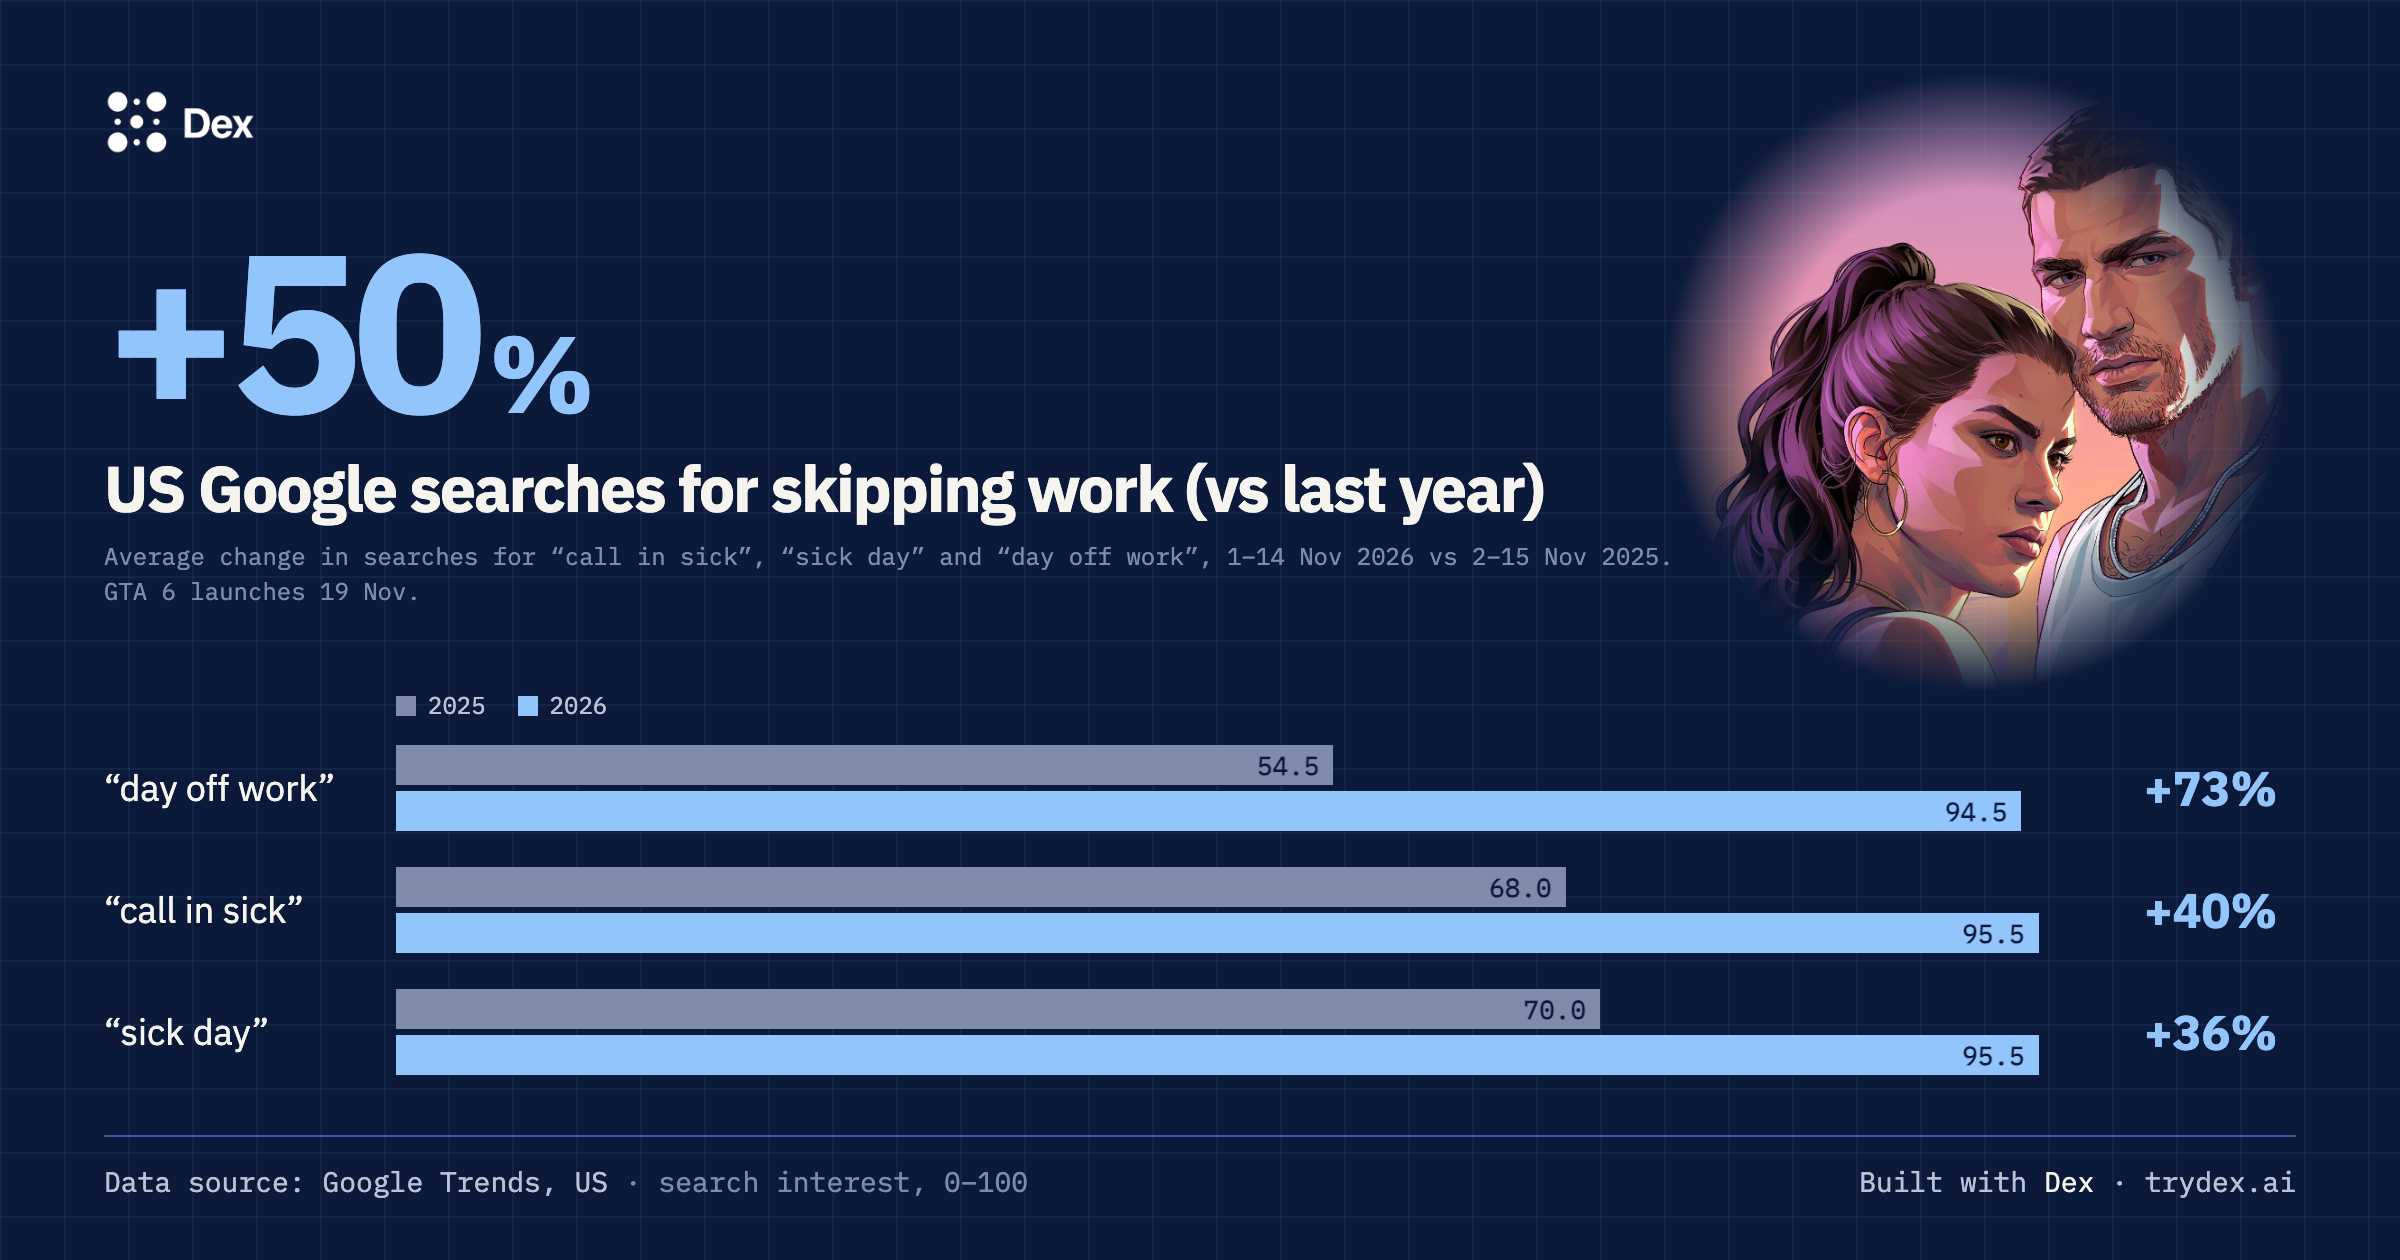
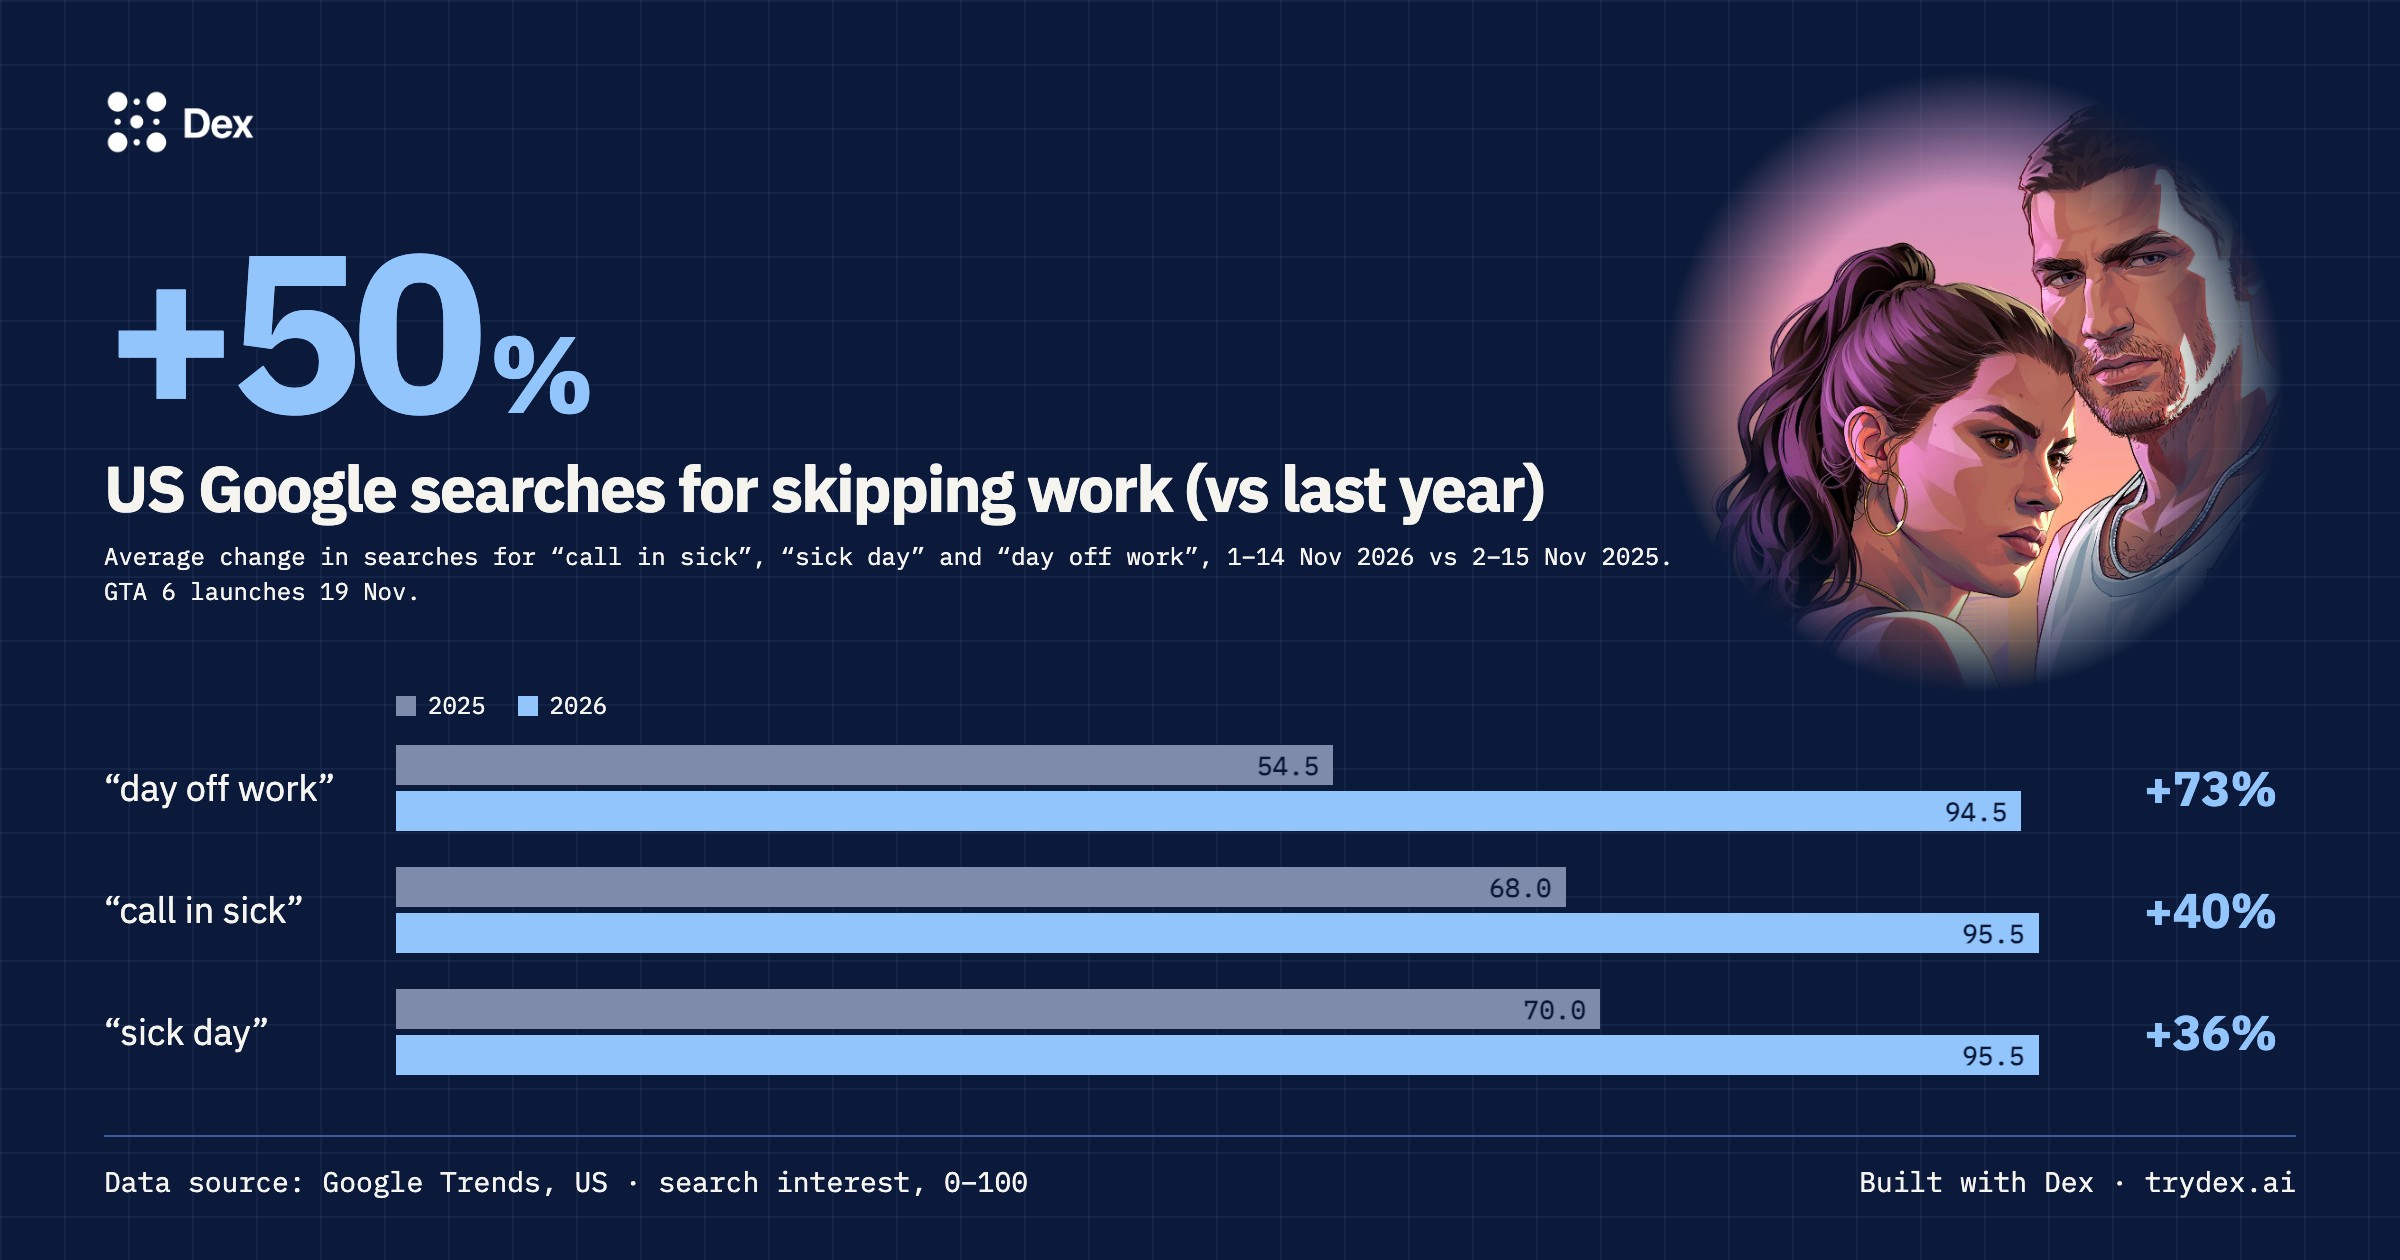
Chart text in ink, not grey

diff --git a/brand/charts.css b/brand/charts.css
@@ -19,19 +19,19 @@ html, body { margin: 0; background: var(--dex-paper); }
 h1 { margin: 0; font-size: 40px; line-height: 1.06; letter-spacing: -1.4px; font-weight: 700; }
 h1 em { font-style: normal; color: var(--dex-line); }
 h1 .red { color: var(--dex-redline); }
-.lede { margin: 10px 0 0; font-size: 20px; line-height: 1.35; color: var(--dex-ink-muted); max-width: 980px; }
+.lede { margin: 10px 0 0; font-size: 20px; line-height: 1.35; color: var(--dex-ink); max-width: 980px; }
 .plot { margin-top: 14px; flex: 1; min-height: 0; }
 .plot svg { width: 100%; height: 100%; }
 .foot { display: flex; justify-content: space-between; align-items: center; gap: 20px;
   padding-top: 13px; margin-top: 14px; border-top: 1px solid var(--dex-line-soft);
-  font: 14px var(--font-mono); color: var(--dex-ink-muted); position: relative; }
+  font: 14px var(--font-mono); color: var(--dex-ink); position: relative; }
 .foot b { color: var(--dex-ink); font-weight: 400; }
 
 /* Marks */
 .chart { display: block; overflow: visible; font-family: var(--font-sans); }
 .chart .grid { stroke: var(--dex-rule); stroke-width: 1; }
 .chart .axis { stroke: var(--dex-ink-faint); stroke-width: 1; }
-.chart .tick { fill: var(--dex-ink-muted); font: 14px var(--font-mono); }
+.chart .tick { fill: var(--dex-ink); font: 14px var(--font-mono); }
 .chart .line { fill: none; stroke-width: 2.5; stroke-linejoin: round; stroke-linecap: round; }
 .chart .line.s-study { stroke: var(--dex-line); }
 .chart .line.s-control { stroke: var(--dex-ink-faint); stroke-dasharray: 6 5; }
@@ -43,14 +43,14 @@ h1 .red { color: var(--dex-redline); }
 .chart .marker { stroke: var(--dex-redline); stroke-width: 1.5; stroke-dasharray: 3 4; }
 .chart .marker-label { fill: var(--dex-redline); font: 14px var(--font-mono); text-transform: uppercase; letter-spacing: 1px; }
 .chart .direct { fill: var(--dex-ink); font-size: 17px; font-weight: 700; }
-.chart .direct-name { fill: var(--dex-ink-muted); font-weight: 400; }
+.chart .direct-name { fill: var(--dex-ink); font-weight: 400; }
 
 /* Hero: the number, the headline, then the breakdown */
 .hero { display: flex; flex-direction: column; justify-content: center; gap: 40px; flex: 1; }
 .big { font-size: 112px; line-height: .8; letter-spacing: -5px; font-weight: 700; color: var(--accent); }
 .big small { font-size: 54px; letter-spacing: 0; margin-left: 6px; }
 .hero h1 { margin-top: 18px; font-size: 32px; letter-spacing: -0.9px; }
-.fine { margin: 8px 0 0; font: 12px/1.45 var(--font-mono); color: var(--dex-ink-faint); }
+.fine { margin: 8px 0 0; font: 12px/1.45 var(--font-mono); color: var(--dex-ink); }
 
 /* Image bubble: a round crop in the top right that fades into the paper */
 .aside { position: absolute; top: 36px; right: 58px; width: 310px; height: 310px; margin: 0;
@@ -61,7 +61,7 @@ h1 .red { color: var(--dex-redline); }
 
 /* Year-on-year bars: per phrase, last year above this year, the change at the end */
 .yoy { display: grid; grid-template-columns: 132px 1fr 76px; column-gap: 14px; row-gap: 18px; align-items: center; }
-.yoy .key { grid-column: 2 / 4; margin-bottom: -6px; display: flex; gap: 16px; font: 12px var(--font-mono); color: var(--dex-ink-muted); }
+.yoy .key { grid-column: 2 / 4; margin-bottom: -6px; display: flex; gap: 16px; font: 12px var(--font-mono); color: var(--dex-ink); }
 .yoy .key i { display: inline-block; width: 10px; height: 10px; margin-right: 6px; vertical-align: -1px; }
 .yoy .term { font-size: 18px; color: var(--dex-ink); white-space: nowrap; }
 .yoy .pair { display: grid; gap: 3px; }
@@ -74,7 +74,7 @@ h1 .red { color: var(--dex-redline); }
 /* Lift bars */
 .bars { display: grid; gap: 10px; margin-top: 8px; }
 .bar-row { display: grid; grid-template-columns: 300px 1fr 92px; gap: 16px; align-items: center; font-size: 18px; }
-.bar-row .name { color: var(--dex-ink-muted); white-space: nowrap; overflow: hidden; text-overflow: ellipsis; }
+.bar-row .name { color: var(--dex-ink); white-space: nowrap; overflow: hidden; text-overflow: ellipsis; }
 .bar-row .track { position: relative; height: 22px; }
 .bar-row .fill { position: absolute; top: 2px; height: 8px; border-radius: 0 4px 4px 0; }
 .bar-row .fill.study { background: var(--dex-line); top: 0; height: 10px; }
@@ -82,17 +82,15 @@ h1 .red { color: var(--dex-redline); }
 .bar-row .fill.pending { background: none; border: 1px dashed var(--dex-line-soft); top: 0; height: 10px; }
 .bar-row .par { position: absolute; top: -4px; bottom: -4px; width: 0; border-left: 1px solid var(--dex-ink); }
 .bar-row .val { font: 16px var(--font-mono); text-align: right; }
-.legend { display: flex; gap: 22px; font: 14px var(--font-mono); color: var(--dex-ink-muted); margin-top: 6px; }
+.legend { display: flex; gap: 22px; font: 14px var(--font-mono); color: var(--dex-ink); margin-top: 6px; }
 .legend i { display: inline-block; width: 18px; height: 8px; margin-right: 8px; vertical-align: middle; }
 .legend .study { background: var(--dex-line); }
 .legend .control { background: var(--dex-ink-faint); }
 .legend .red { background: var(--dex-redline); height: 2px; }
 .chart .direct, .chart .marker-label, .chart .note { paint-order: stroke; stroke: var(--dex-paper); stroke-width: 6px; stroke-linejoin: round; }
-.chart .note { fill: var(--dex-ink-muted); font: 14px var(--font-mono); }
+.chart .note { fill: var(--dex-ink); font: 14px var(--font-mono); }
 .chart .note-dot { fill: none; stroke: var(--dex-ink-muted); stroke-width: 1; }
 
-/* Footer unit: present but quiet */
-.foot .unit { color: var(--dex-ink-faint); }
 
 /* Portrait (4:5) variant of the hero card: number and art side by side, bars below */
 .card.portrait { padding: 40px 44px 28px; }

diff --git a/site/index.html b/site/index.html
@@ -63,7 +63,7 @@
 <main>
 <header>
   <img id="logo" alt="Dex" src="brand/assets/dex-logo-black.png">
-  <span class="meta">GTA 6 vs. productivity · updated 2026-11-16 23:57 UTC</span>
+  <span class="meta">GTA 6 vs. productivity · updated 2026-11-17 00:24 UTC</span>
 </header>
 <h1>Day-Off Index: <em>+50%</em>.</h1>
 <p class="lede">US Google searches for skipping work, 1–14 Nov 2026 against 2–15 Nov 2025: call in sick +40.4% · day off work +73.4% · sick day +36.4%. The index is the average of the three. GTA 6 comes out on Thursday 19 November.</p>
